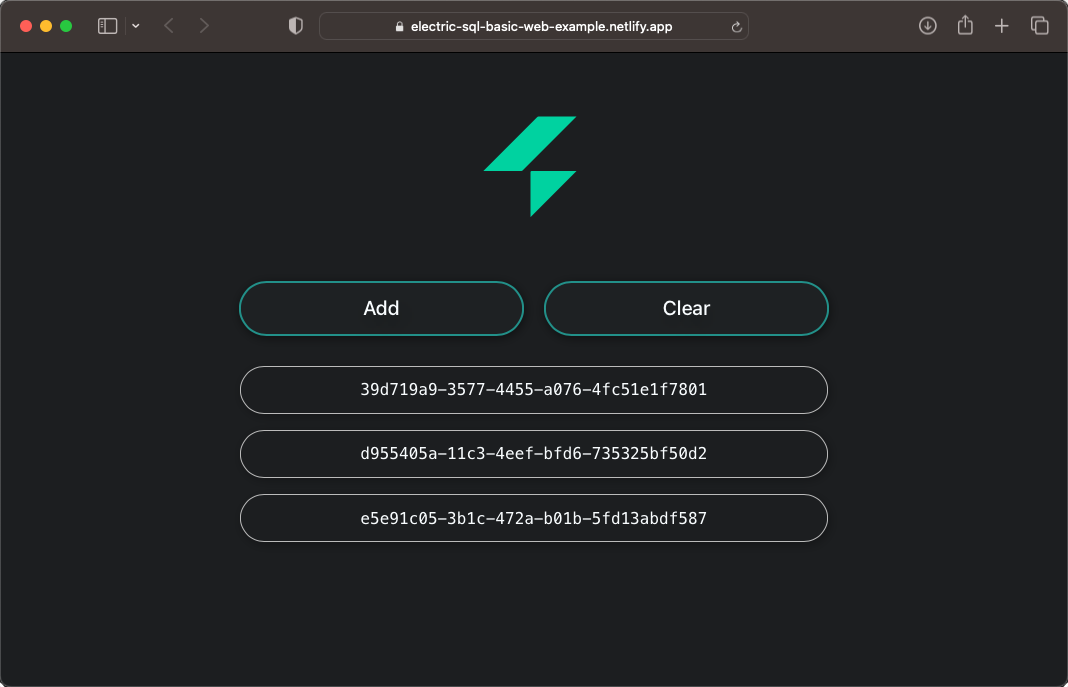
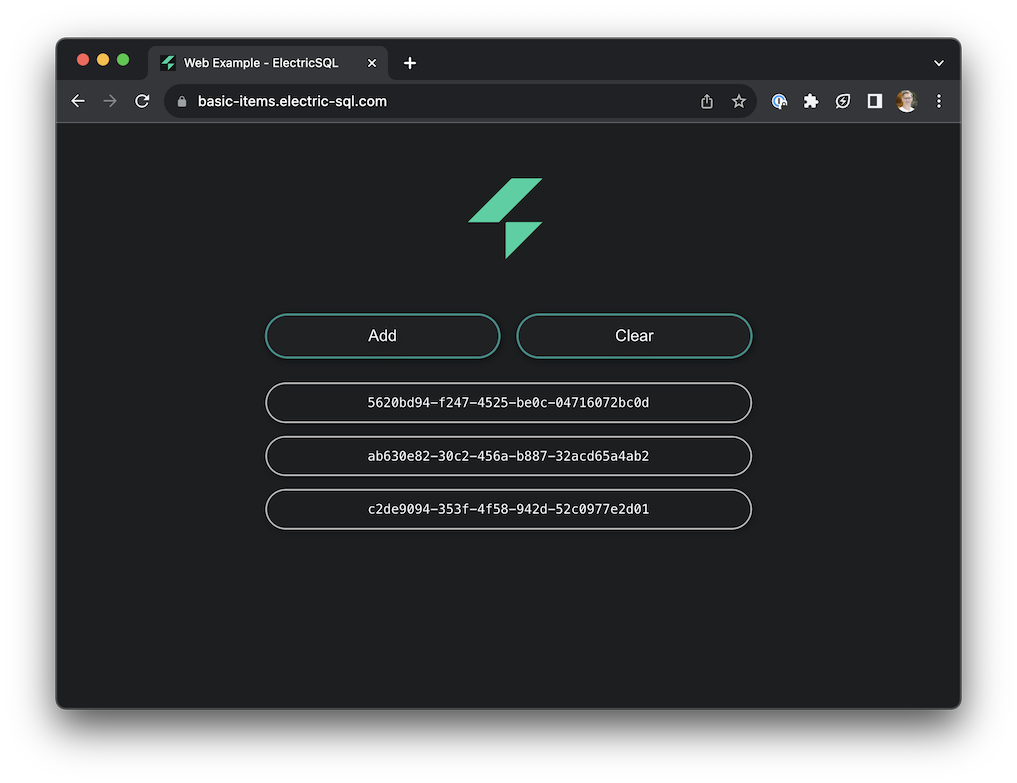
docs: update basic example to use the new auto-deployed URL.

diff --git a/docs/examples/basic.md b/docs/examples/basic.md
@@ -8,11 +8,11 @@ import BrowserOnly from '@docusaurus/BrowserOnly'
 
 # Basic example
 
-See the basic web example running online at [electric-sql-basic-web-example.netlify.app](https://electric-sql-basic-web-example.netlify.app):
+See the basic web example running online at [basic-items.electric-sql.com](https://basic-items.electric-sql.com):
 
 <div className="my-6">
 
-[![Example banner](./basic-demo-screenshot.png)](https://electric-sql-basic-web-example.netlify.app)
+[![Example banner](./basic-demo-screenshot.png)](https://basic-items.electric-sql.com)
 
 </div>
 
@@ -26,8 +26,8 @@ It's a basic app running in the web browser [using wa-sqlite](../integrations/dr
           <div className="qr-container">
             <BrowserOnly>
               {() => (
-                <a href="https://electric-sql-basic-web-example.netlify.app" target="_blank">
-                  <QRCode value="https://electric-sql-basic-web-example.netlify.app" />
+                <a href="https://basic-items.electric-sql.com" target="_blank">
+                  <QRCode value="https://basic-items.electric-sql.com" />
                 </a>
               )}
             </BrowserOnly>
